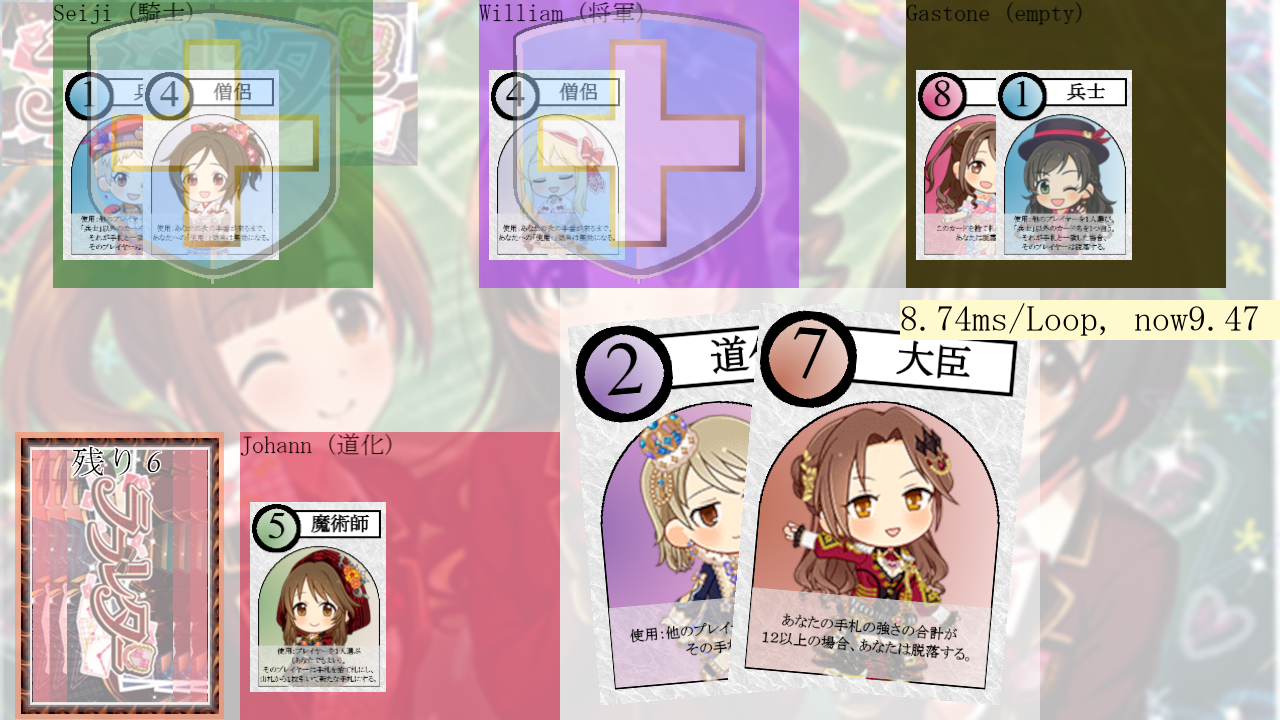
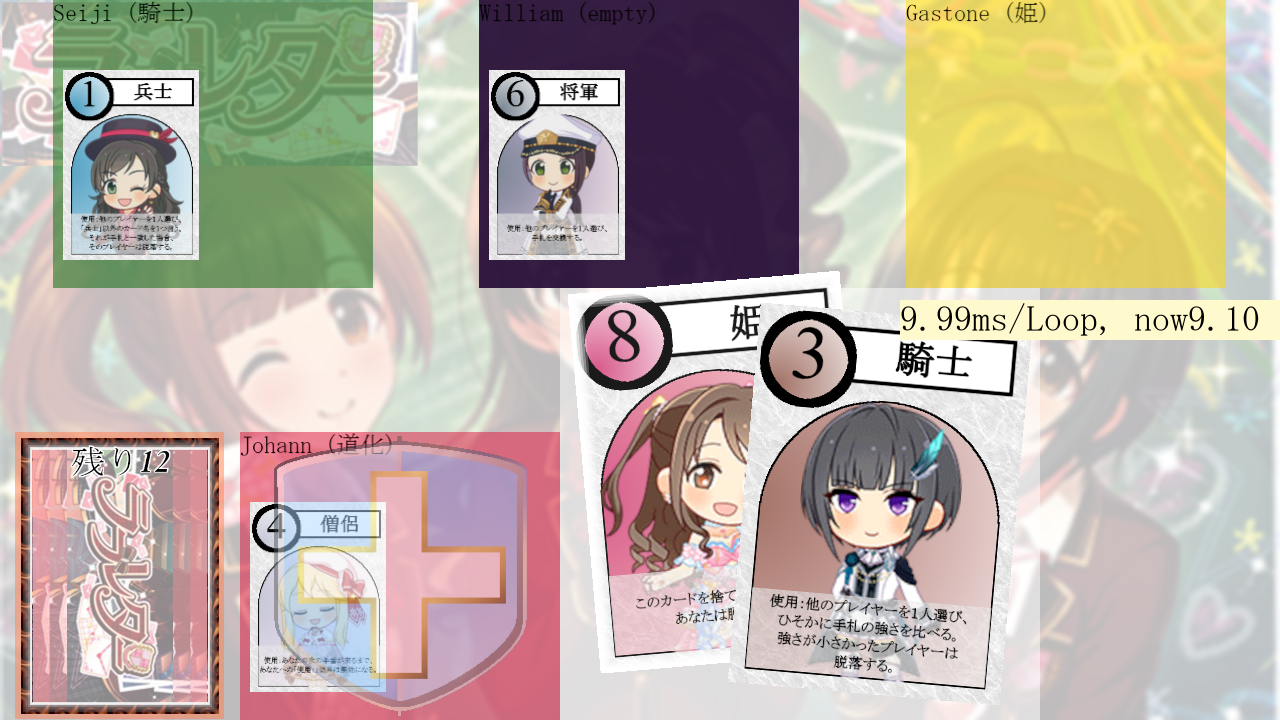
L182:ArrestsControllerの外枠を作成

diff --git a/ll/ctrl/arrests.py b/ll/ctrl/arrests.py
@@ -1,42 +1,52 @@
-from pygame import Rect
+from pygame import Rect, Vector2 as V2
 
+from any.pictures import IMG_WANTED
 from any.screen import screen
+from model.kard import Kard
 from model.player import Player
 from ptc.bridge import Bridge
-from view.duel.duel_engage_transition import DuelEngageTransition
-from view.duel.duel_open_transition import DuelOpenTransition
-from view.duel.duel_slash_transition import DuelSlashTransition
+from view.linear_transition import LinearTransition
+# from view.arrest.engage_transition import EngageTransition
+# from view.arrest.open_transition import OpenTransition
+# from view.arrest.slash_transition import SlashTransition
 from view.moves_view import MovesView
 
 class ArrestsController():
     def __init__(self, bridge: Bridge) -> None:
         self.bridge = bridge
 
-    def action(self, p1: Player, p2: Player) -> None:
+    def action(self, player: Player, kard: Kard) -> None:
         self.bridge.whileloop(new_view=MovesView(
             view=self.bridge.view,
-            transitions=[DuelEngageTransition(
-                rect=Rect(200, 120, 880, 475),
-                p1=p1,
-                p2=p2,
+            # transitions=[EngageTransition(
+            #     rect=Rect(200, 120, 880, 475),
+            #     p1=p1,
+            #     p2=p2,
+            #     canvas=screen
+            # ),
+            # LinearTransition(
+            transitions=[LinearTransition(
+                img_actor=IMG_WANTED,
+                from_v2=V2(200+170-340*2, 120+240),
+                to_v2=V2(200+170, 120+240),
                 canvas=screen
             )]
         ))
-        self.bridge.whileloop(new_view=MovesView(
-            view=self.bridge.view,
-            transitions=[DuelOpenTransition(
-                rect=Rect(200, 120, 880, 475),
-                p1=p1,
-                p2=p2,
-                canvas=screen
-            )]
-        ))
-        self.bridge.whileloop(new_view=MovesView(
-            view=self.bridge.view,
-            transitions=[DuelSlashTransition(
-                rect=Rect(200, 120, 880, 475),
-                p1=p1,
-                p2=p2,
-                canvas=screen
-            )]
-        ))
+        # self.bridge.whileloop(new_view=MovesView(
+        #     view=self.bridge.view,
+        #     transitions=[DuelOpenTransition(
+        #         rect=Rect(200, 120, 880, 475),
+        #         p1=p1,
+        #         p2=p2,
+        #         canvas=screen
+        #     )]
+        # ))
+        # self.bridge.whileloop(new_view=MovesView(
+        #     view=self.bridge.view,
+        #     transitions=[DuelSlashTransition(
+        #         rect=Rect(200, 120, 880, 475),
+        #         p1=p1,
+        #         p2=p2,
+        #         canvas=screen
+        #     )]
+        # ))

diff --git a/ll/view/arrest/engage_transition.py b/ll/view/arrest/engage_transition.py
@@ -1,0 +1,42 @@
+from pygame import Surface, Vector2 as V2, Rect
+
+from any.func import ratio_rect
+from model.kard import Kard
+from model.player import Player
+from view.arrest.kard_move_square import KardMoveSquare
+from view.arrest.icon_square import IconSquare
+from view.progress_helper import ProgressHelper
+
+_RATIO = V2(880, 475)
+_SECONDS = 0.5
+
+from ptc.transition import Transition
+class EngageTransition():
+    def __init__(self, rect: Rect, player: Player, kard: Kard, canvas: Surface) -> None:
+        _, self.in_progress, _, _, self.get_hover, self.elapse\
+            = ProgressHelper(seconds=_SECONDS).provide_progress_funcs()
+        self.rect = ratio_rect(rect=rect, ratio=_RATIO)
+        self.canvas = canvas
+        self.squares = self._squares(player=player, kard=kard)
+
+    def rearrange(self) -> None:
+        ...
+
+    def draw(self) -> None:
+        for square in self.squares:
+            square.offset_draw(offset=self.offset)
+
+    def _squares(self, p1: Player, p2: Player) -> list[IconSquare | KardMoveSquare]:
+        self.aiq = IconSquare(rect=Rect(300, 95, 280, 280), canvas=self.canvas, seconds=_SECONDS)
+        self.left_amq = KardMoveSquare(
+            rect=((0, 0), (340, 475)),
+            
+        )
+        li: list[tuple[tuple[int, int], Player, bool]] = [((0, 0), p1, True), ((540, 0), p2, False)]
+        self.left_dkoq, self.right_dkoq = [KardMoveSquare(
+            rect=Rect(tpl, (340, 475)), kard=player.hands[0],
+            is_left=is_left, canvas=self.canvas, seconds=_SECONDS
+        ) for tpl, player, is_left in li]
+        self.offset = V2(self.rect.topleft)
+        return [self.diq, self.left_dkoq, self.right_dkoq]
+

diff --git a/ll/model/deck.py b/ll/model/deck.py
@@ -29,6 +29,49 @@ _kards: list[Kard] = [
 def make_deck() -> list[Kard]:
     deck = deepcopy(_deck)
     shuffle(deck)
+
+#     # # 「姫」の処理を実装する為に１枚目を姫に修正
+#     # deck.insert(0, _kards[8])
+
+#     # # 「大臣」の処理を実装する為に１枚目を大臣に修正
+#     # deck.insert(0, _kards[7])
+#     # deck.insert(1, _kards[7])
+#     # deck.insert(4, _kards[8])
+#     # deck.insert(5, _kards[1])
+
+#     # # 「将軍」の処理を実装する為に１枚目を将軍に変更
+#     # deck.insert(0, _kards[6])
+
+#     # # 「魔術師」
+#     # deck.insert(0, _kards[5])
+#     # deck.insert(1, _kards[8])
+#     # deck.insert(2, _kards[5])
+
+#     # # 「僧侶」
+#     # deck.insert(0, _kards[4])
+#     # deck.insert(1, _kards[5])
+#     # deck.insert(2, _kards[6])
+#     # deck.insert(4, _kards[8])
+
+#     # # 「騎士」
+#     # deck.insert(0, _kards[5])
+#     # deck.insert(1, _kards[5])
+#     # deck.insert(2, _kards[6])
+#     # deck.insert(3, _kards[4])
+#     # deck.insert(4, _kards[3])
+#     # deck.insert(5, _kards[3])
+#     # deck.insert(6, _kards[3])
+#     # deck.insert(7, _kards[3])
+
+#     # # 「道化」
+#     # deck.insert(0, _kards[2])
+#     # deck.insert(1, _kards[2])
+
+    # 「兵士」
+    deck.insert(0, _kards[2])
+    deck.insert(1, _kards[1])
+    deck.insert(4, _kards[4])
+
     return deck
 
 print("make_deck", make_deck())

diff --git a/ll/model/board.py b/ll/model/board.py
@@ -1,8 +1,10 @@
+#       10        20        30        40        50        60        70       79
 from dataclasses import dataclass, field
 from typing import Callable
 
 from model.kard import Kard
-from model.deck import make_deck, KARD_DOUKE, KARD_KISI, KARD_MAZYUTUSI, KARD_SYOUGUN, KARD_HIME, KARD_DAIZIN
+from model.deck import make_deck, KARD_HEISI, KARD_DOUKE, KARD_KISI,\
+    KARD_MAZYUTUSI, KARD_SYOUGUN, KARD_HIME, KARD_DAIZIN
 from model.player import Player, OBSERVER
 
 @dataclass
@@ -14,6 +16,8 @@ class Board:
     draw_kard_async: Callable[[Player], None] = lambda p: None
     turn_start_async: Callable[[], None] = lambda : None
     use_kard_async: Callable[[Player, Kard], None] = lambda p, k: None
+
+    arrest_async: Callable[[Player, Kard], None] = lambda p, k: None
     peep_async: Callable[[Player, Player, Player], None] = lambda p1, p2, p3: None
     duel_async: Callable[[Player, Player], None] = lambda p1, p2: None
     defeat_by_duel_async: Callable[[Player], None] = lambda p: None
@@ -74,6 +78,10 @@ class Board:
         raise ValueError("生存者がいません", self)
     
     def arrest(self, player: Player, kard: Kard) -> None:
+        if player.protected:
+            self.guard_async(KARD_HEISI)
+            return
+        self.arrest_async(player, kard)
         if player.hands[0] == kard:
             self.retire(player=player)
 

diff --git a/ll/view/arrest/kard_move_square.py b/ll/view/arrest/kard_move_square.py
@@ -1,0 +1,39 @@
+from pygame import Surface, Vector2 as V2, transform, Rect
+
+from any.func import ratio_rect
+from any.pictures import IMG_BACK
+from model.kard import Kard
+from view.progress_helper import ProgressHelper
+
+_RATIO = V2(340, 475)
+
+from ptc.square import Square
+class KardMoveSquare():
+    def __init__(
+            self, rect: Rect, kard: Kard, is_left: bool,
+            canvas: Surface, seconds: float=0.0
+        ) -> None:
+        self._ratio = ProgressHelper(seconds=seconds).ratio
+        self._ratio = self._ratio if seconds else lambda: 1.0
+        self.get_hover = ProgressHelper.empty_get_hover
+        self.rect = ratio_rect(rect=rect, ratio=_RATIO)
+        self.kard = kard
+        self.canvas = canvas
+        self.img_back = self._img_back()
+        self.to_v2 = V2(rect.topleft)
+        self.from_v2 = self.to_v2+V2(self.img_back.get_width(), 0)*(-2 if is_left else 2)
+
+    def rearrange(self) -> None:
+        ...
+
+    def draw(self) -> None:
+        self.offset_draw()
+
+    def offset_draw(self, offset: V2=V2(0, 0)) -> None:
+        self.canvas.blit(
+            source=self.img_back,
+            dest=self.from_v2.lerp(self.to_v2, self._ratio())+offset
+        )
+
+    def _img_back(self) -> Surface:
+        return transform.rotozoom(surface=IMG_BACK, angle=0.0, scale=self.rect.w/_RATIO.x)

diff --git a/ll/view/arrest/icon_square.py b/ll/view/arrest/icon_square.py
@@ -1,0 +1,40 @@
+from pygame import Surface, Vector2 as V2, transform, Rect
+
+from any.func import ratio_rect
+from any.pictures import IMG_DUEL
+from view.progress_helper import ProgressHelper
+
+_RATIO = V2(280, 280)
+
+from ptc.transition import Transition
+class IconSquare():
+    def __init__(self, rect: Rect, canvas: Surface, seconds: float=0.0) -> None:
+        self._ratio = ProgressHelper(seconds=seconds).ratio
+        self._ratio = self._ratio if seconds else lambda : 1.0
+        self.get_hover = ProgressHelper.empty_get_hover
+        self.rect = ratio_rect(rect=rect, ratio=_RATIO)
+        self.canvas = canvas
+        self.img_duel = self._img_duel()
+
+    def rearrange(self) -> None:
+        ...
+
+    def draw(self) -> None:
+        self.offset_draw()
+
+    def offset_draw(self, offset: V2=V2(0, 0)) -> None:
+        img_rz = self._img_rz()
+        self.canvas.blit(
+            source=img_rz,
+            dest=V2(self.rect.center)-V2(img_rz.get_size())/2+offset
+        )
+
+    def _img_duel(self) -> Surface:
+        return transform.rotozoom(surface=IMG_DUEL, angle=0.0, scale=self.rect.w/_RATIO.x)
+
+    def _img_rz(self) -> Surface:
+        return transform.rotozoom(
+            surface=self.img_duel,
+            angle=0.0,
+            scale=3.0-self._ratio()*2
+        )

diff --git a/ll/seed/default_gm.py b/ll/seed/default_gm.py
@@ -1,4 +1,5 @@
 from any.game_master import GameMaster
+from ctrl.arrests import ArrestsController
 from ctrl.bright_kards import BrightKardsController
 from ctrl.defeat_by_duels import DefeatByDuelsController
 from ctrl.defeat_by_ministers import DefeatByMinistersController
@@ -44,6 +45,9 @@ board.diskard_hime_async = DiskardHimesController(
     bridge=gm
 ).action
 
+board.arrest_async = ArrestsController(
+    bridge=gm
+).action
 board.peep_async = PeepsController(
     bridge=gm
 ).action

diff --git a/ll/model/kard.py b/ll/model/kard.py
@@ -11,7 +11,7 @@ class Kard():
 
     def picture(self) -> Surface:
         return picload(self.png_file)
-    
+
     def __eq__(self, other: object) -> bool:
         if not isinstance(other, Kard):
             return False

diff --git a/ll/any/pictures.py b/ll/any/pictures.py
@@ -13,3 +13,4 @@ IMG_BRIGHT = picload("bright")
 IMG_SHIELD = picload("shield")
 IMG_DUEL = picload("duel")
 IMG_PEEP = picload("peep")
+IMG_WANTED = picload("wanted")
